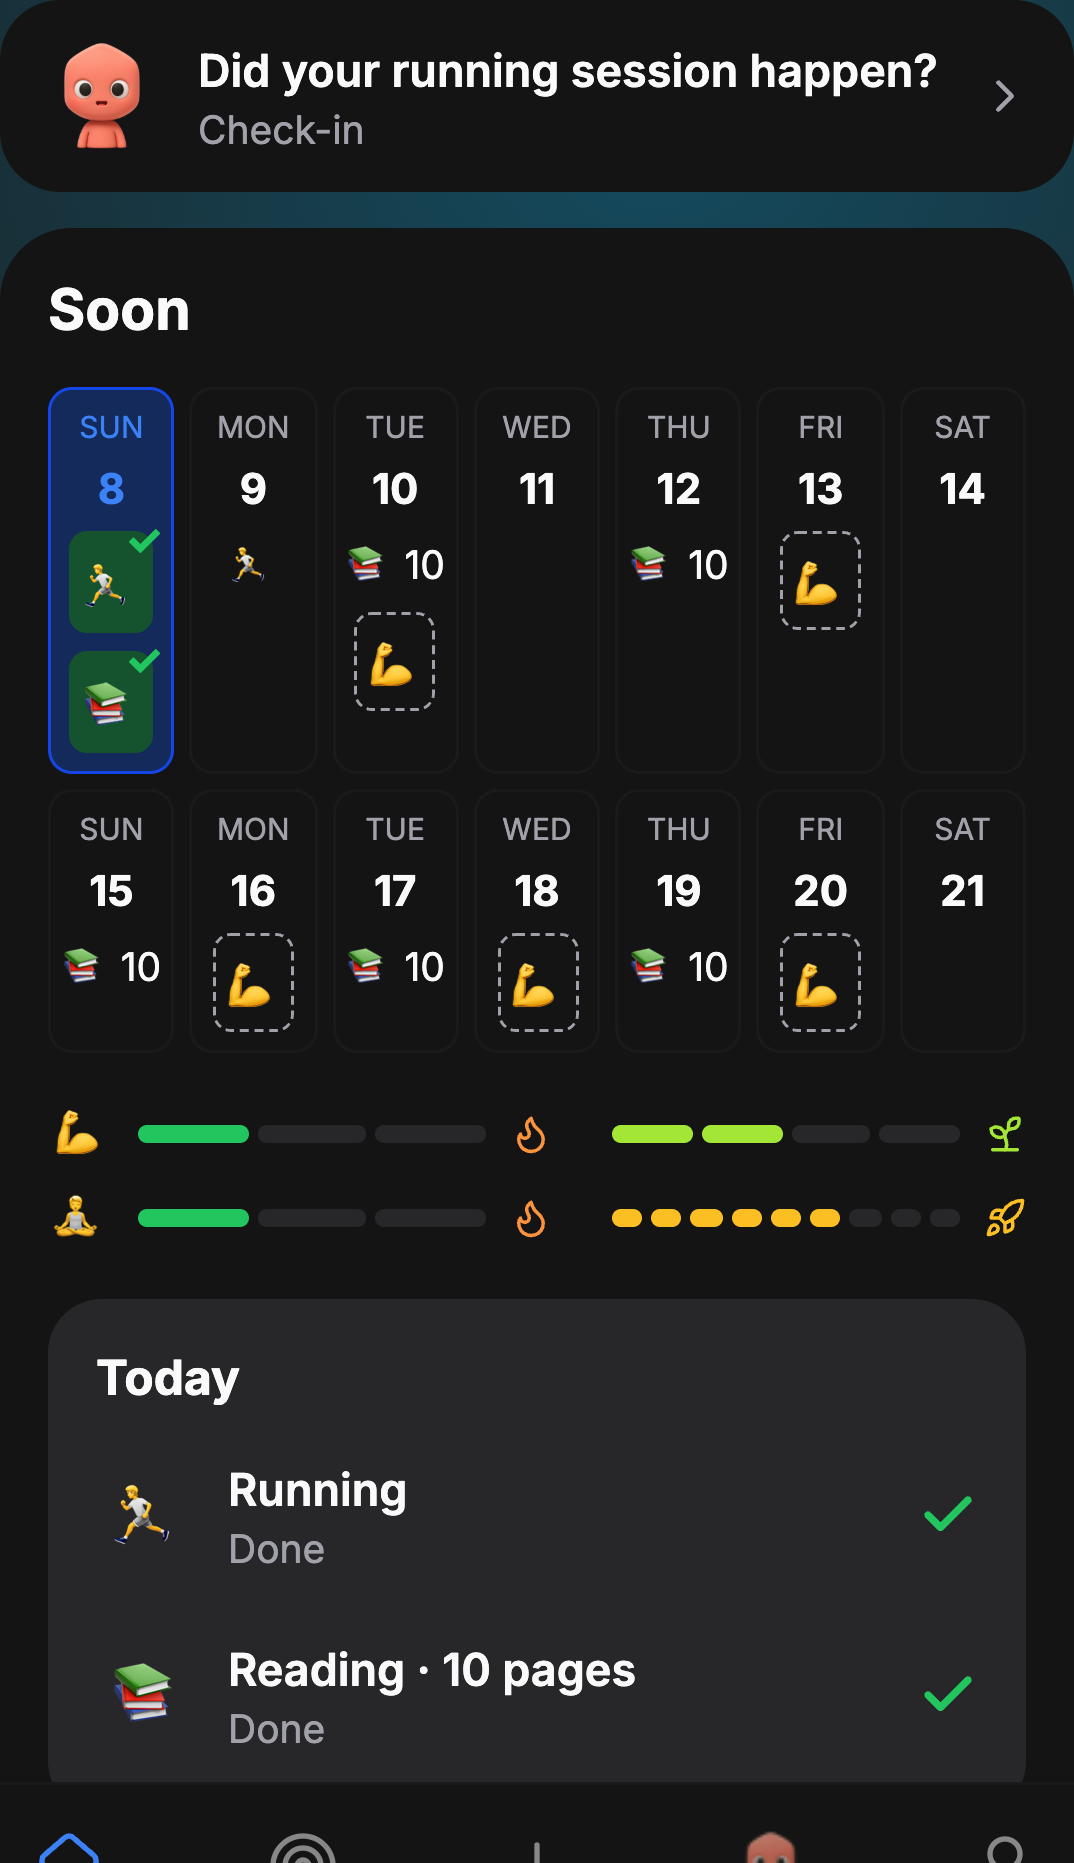
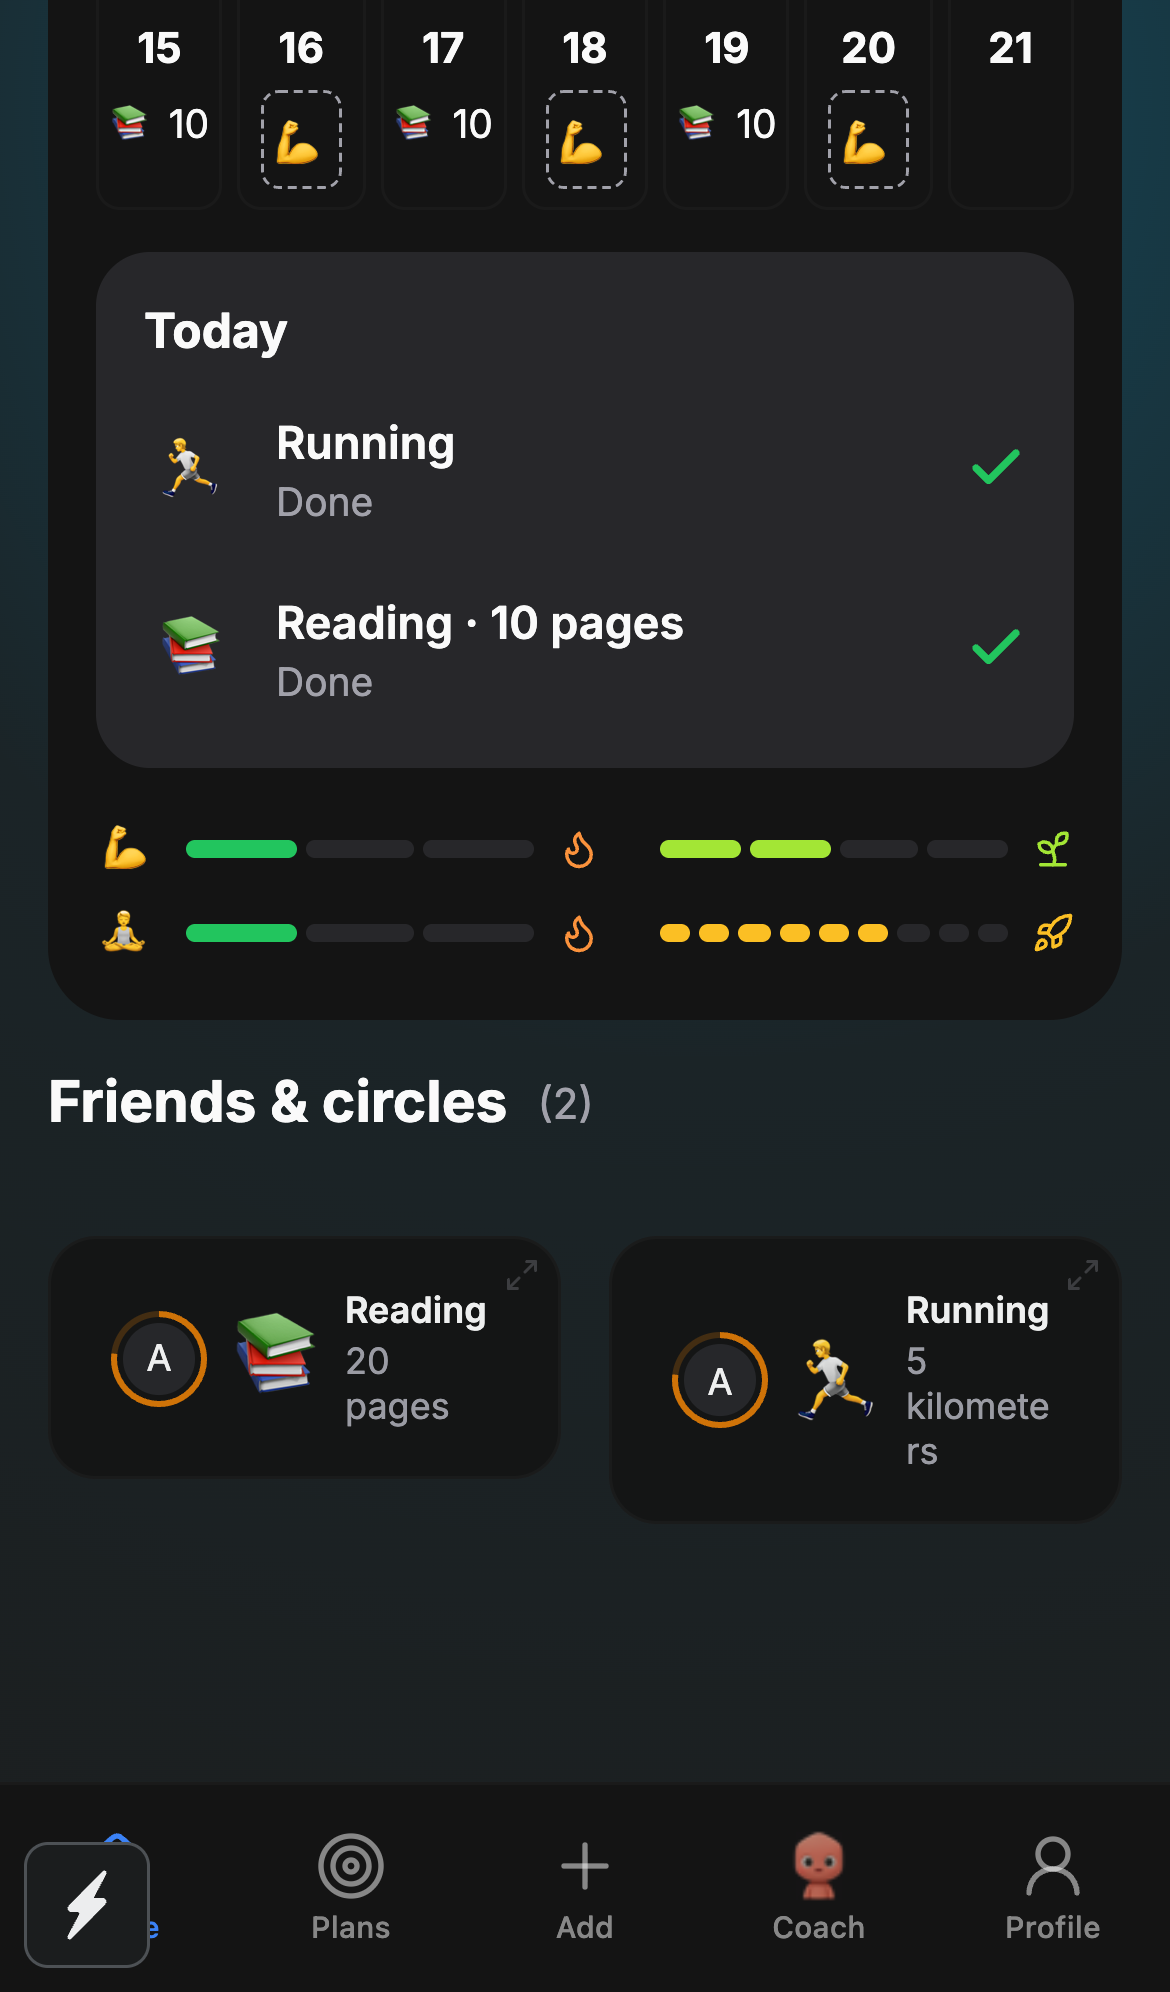
Put the plan lines under the selected day's card [skip ci]

diff --git a/apps/frontend-expo/e2e/home-progress.spec.ts b/apps/frontend-expo/e2e/home-progress.spec.ts
@@ -6,7 +6,7 @@ const API = `http://127.0.0.1:${process.env.E2E_API_PORT || "4317"}`;
 const output = path.resolve(process.env.SCREENSHOT_DIR || "../../docs/reviews/home-progress");
 
 for (const theme of ["LIGHT", "DARK"]) {
-  test(`the Soon card sums up each plan under the two weeks, in ${theme}`, async ({ page, request }) => {
+  test(`the Soon card sums up each plan under the selected day, in ${theme}`, async ({ page, request }) => {
     test.setTimeout(120000);
     await request.post(`${API}/__reset`);
     await request.post(`${API}/__home-todo`, { data: { theme, withoutCoachNote: true } });
@@ -15,11 +15,15 @@ for (const theme of ["LIGHT", "DARK"]) {
     const summary = page.getByTestId("home-progress");
     await expect(summary).toBeVisible();
     await expect(summary.getByRole("button")).toHaveCount(2);
-    // It sits between the day tiles and the selected day, and stays short.
+    // It sits under the selected day's card, and stays short.
     const box = await summary.boundingBox();
+    const dayBox = await page.getByTestId("home-day-detail").boundingBox();
+    expect(box!.y).toBeGreaterThan(dayBox!.y + dayBox!.height);
     expect(box!.height).toBeLessThan(60);
 
     mkdirSync(output, { recursive: true });
-    await page.getByTestId("home-todo").screenshot({ path: path.join(output, `soon-${theme.toLowerCase()}.png`) });
+    await summary.evaluate((el) => el.scrollIntoView({ block: "center" }));
+    await page.waitForTimeout(300);
+    await page.screenshot({ path: path.join(output, `soon-${theme.toLowerCase()}.png`) });
   });
 }

diff --git a/apps/frontend-expo/src/features/timeline/home-todo/HomeProgress.tsx b/apps/frontend-expo/src/features/timeline/home-todo/HomeProgress.tsx
@@ -6,7 +6,7 @@ import { useColors } from "@/components/ui";
 import { progressCircles } from "@/features/plans/streak-progress";
 import type { HomeProgressProps, HomeStepsProps } from "./types";
 
-// Under the two weeks: one thin line per plan, this week's sessions then the streak. The plan's page has the full strip.
+// Under the selected day: one thin line per plan, this week's sessions then the streak. The plan's page has the full strip.
 const WEEK = "#22c55e";
 const HABIT = "#a3e635";
 const LIFESTYLE = "#fbbf24";

diff --git a/apps/frontend-expo/src/features/timeline/home-todo/HomeTodo.tsx b/apps/frontend-expo/src/features/timeline/home-todo/HomeTodo.tsx
@@ -40,8 +40,8 @@ export function HomeTodo({ plans, entries }: HomeTodoProps) {
         <View style={{ gap: 14, padding: 16, borderRadius: 24, backgroundColor: c.card }}>
           <Heading>Soon</Heading>
           <TwoWeeks weeks={weeks} selectedKey={day.key} onSelect={setSelectedKey} />
-          <HomeProgress rows={progress} />
           <DayDetail day={day} todayKey={projection.todayKey} />
+          <HomeProgress rows={progress} />
         </View>
       )}
     </View>

diff --git a/apps/frontend-vite/src/components/home-todo/HomeProgress.tsx b/apps/frontend-vite/src/components/home-todo/HomeProgress.tsx
@@ -3,7 +3,7 @@ import { Flame, Rocket, Sprout } from "lucide-react";
 import { cn } from "@/lib/utils";
 import type { HomeProgressProps, HomeStepsProps } from "./types";
 
-// Under the two weeks: one thin line per plan, this week's sessions then the streak. Same as the iPhone app.
+// Under the selected day: one thin line per plan, this week's sessions then the streak. Same as the iPhone app.
 /** Steps shown before the rest becomes "+n". */
 const MAX_STEPS = 9;
 

diff --git a/apps/frontend-vite/src/components/home-todo/HomeTodo.tsx b/apps/frontend-vite/src/components/home-todo/HomeTodo.tsx
@@ -37,8 +37,8 @@ export const HomeTodo = () => {
         <section className="flex flex-col gap-3.5 rounded-3xl bg-card p-4">
           <h2 className="text-[19px] font-bold">Soon</h2>
           <TwoWeeks weeks={weeks} selectedKey={day.key} onSelect={setSelectedKey} />
-          <HomeProgress rows={progress} />
           <DayDetail day={day} todayKey={projection.todayKey} />
+          <HomeProgress rows={progress} />
         </section>
       )}
     </div>
